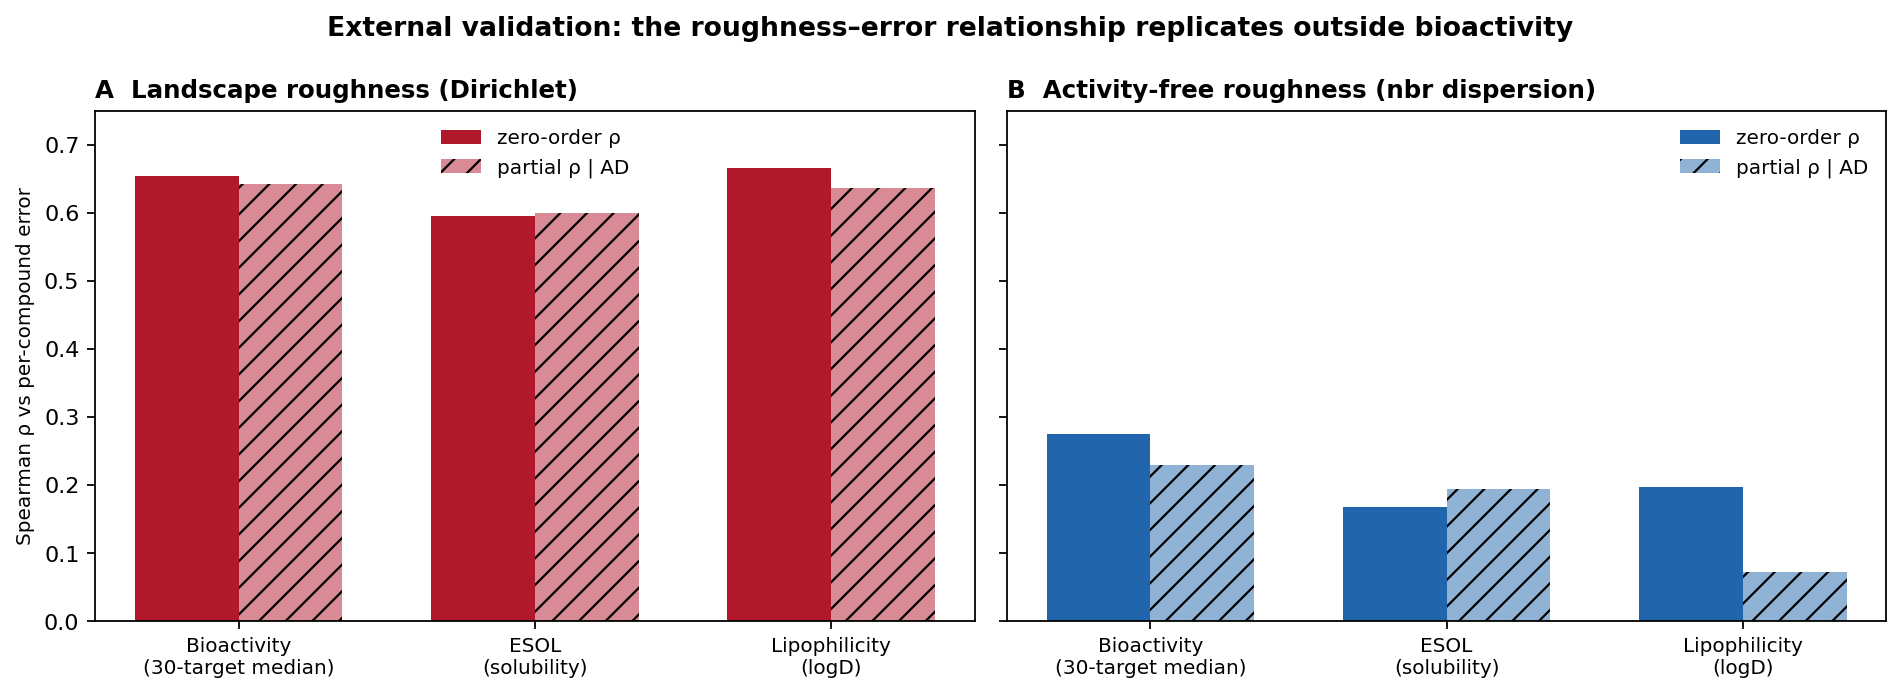
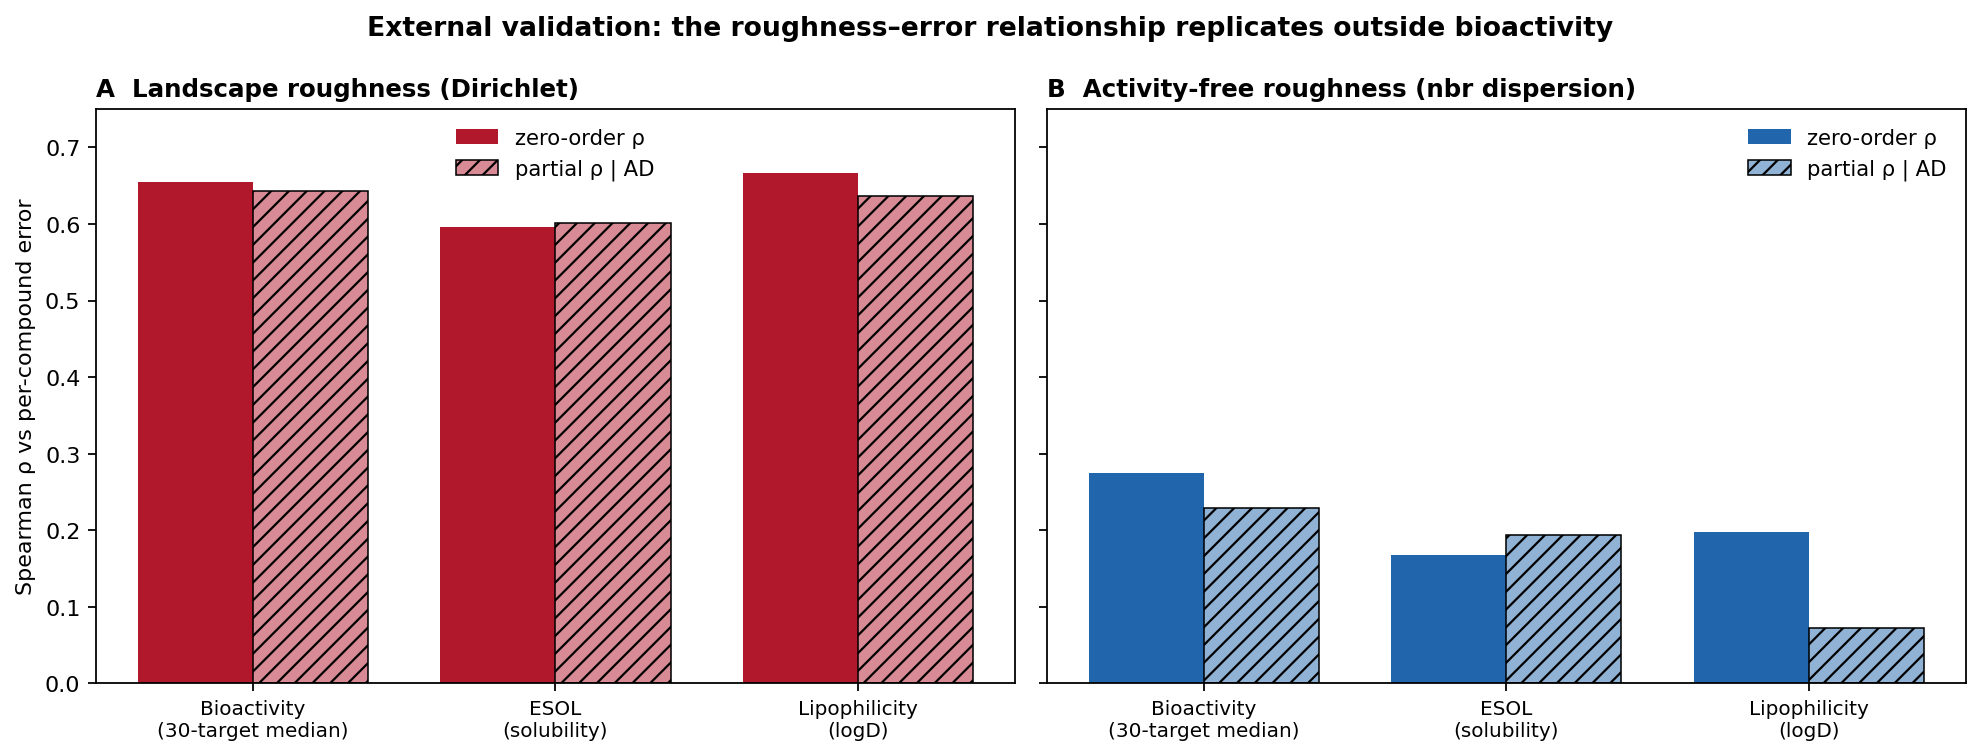
Add make_figure4.py to regenerate the cross-domain figure (Figure 4)
Figure 4 had no generating script in the repo. Add src/make_figure4.py, which
rebuilds figure4_crossdomain.png from cross_domain_results.csv (ESOL, Lipophilicity)
and the bioactivity medians in tableA/tableB, matching the published panel. Update
the README repro order and drop the stale 'cross_domain.py -> figure' claim, so every
figure in the paper is now regenerable. Recompiled main.pdf.

diff --git a/src/make_figure4.py b/src/make_figure4.py
@@ -1,0 +1,51 @@
+"""make_figure4.py -- cross-domain validation figure (Figure 4).
+grouped bars of zero-order vs AD-controlled partial Spearman, for the landscape
+Dirichlet energy (panel A) and the activity-free neighbour dispersion (panel B),
+across the 30-target bioactivity median and the two MoleculeNet physchem sets.
+reads cross_domain_results.csv (ESOL + Lipophilicity) and tableA/tableB for the
+bioactivity medians, so run after cross_domain.py and analyze.py.
+"""
+import os, sys
+sys.path.insert(0, os.path.dirname(os.path.abspath(__file__)))
+from config import RESULTS_DIR, FIGURES_DIR
+import numpy as np, pandas as pd
+import matplotlib; matplotlib.use("Agg"); import matplotlib.pyplot as plt
+
+cd = pd.read_csv(os.path.join(RESULTS_DIR, "cross_domain_results.csv")).set_index("dataset")
+A  = pd.read_csv(os.path.join(RESULTS_DIR, "tableA_spearman_vs_error.csv")).set_index("predictor")
+B  = pd.read_csv(os.path.join(RESULTS_DIR, "tableB_partial_AD.csv")).set_index("predictor")
+
+esol, lipo = "ESOL (logS solubility)", "Lipophilicity (logD)"
+groups = ["Bioactivity\n(30-target median)", "ESOL\n(solubility)", "Lipophilicity\n(logD)"]
+
+# panel A: landscape Dirichlet energy; panel B: activity-free neighbour dispersion
+dir_zero  = [A.loc["dirichlet", "median_rho"], cd.loc[esol, "rho_dirichlet"], cd.loc[lipo, "rho_dirichlet"]]
+dir_part  = [B.loc["dirichlet", "partial_AD"], cd.loc[esol, "partial_dir_AD"], cd.loc[lipo, "partial_dir_AD"]]
+disp_zero = [A.loc["nbr_disp", "median_rho"],  cd.loc[esol, "rho_nbr_disp"],  cd.loc[lipo, "rho_nbr_disp"]]
+disp_part = [B.loc["nbr_disp", "partial_AD"],  cd.loc[esol, "partial_disp_AD"], cd.loc[lipo, "partial_disp_AD"]]
+
+def lighten(hexc, f=0.5):
+    h = hexc.lstrip("#"); rgb = [int(h[i:i+2], 16) for i in (0, 2, 4)]
+    return "#%02x%02x%02x" % tuple(int(c + (255 - c) * f) for c in rgb)
+
+panels = [("A  Landscape roughness (Dirichlet)",          "#b2182b", dir_zero,  dir_part),
+          ("B  Activity-free roughness (nbr dispersion)", "#2166ac", disp_zero, disp_part)]
+
+fig, ax = plt.subplots(1, 2, figsize=(12.5, 4.8), sharey=True)
+x, w = np.arange(len(groups)), 0.38
+for a, (title, color, zero, part) in zip(ax, panels):
+    a.bar(x - w/2, zero, w, color=color, label="zero-order ρ")
+    a.bar(x + w/2, part, w, facecolor=lighten(color), hatch="///",
+          edgecolor="black", linewidth=0.7, label="partial ρ | AD")
+    a.set_xticks(x); a.set_xticklabels(groups, fontsize=9)
+    a.axhline(0, color="k", lw=0.6)
+    a.set_ylim(0, 0.75)
+    a.set_title(title, fontsize=11, loc="left", weight="bold")
+    a.legend(frameon=False, fontsize=9.5,
+             loc="upper center" if title.startswith("A") else "upper right")
+ax[0].set_ylabel("Spearman ρ vs per-compound error", fontsize=10)
+fig.suptitle("External validation: the roughness–error relationship replicates outside bioactivity",
+             fontsize=12, weight="bold")
+plt.tight_layout()
+plt.savefig(os.path.join(FIGURES_DIR, "figure4_crossdomain.png"), dpi=160, bbox_inches="tight")
+print("figure4_crossdomain.png saved")

diff --git a/README.md b/README.md
@@ -66,9 +66,10 @@ python src/robustness.py all            # k / metric sweep -> robustness caches
 python src/robustness_analyze.py        # -> robustness_summary.csv, robustness figure
 python src/model2.py all                # gradient boosting + SVR errors -> cache_models/
 python src/model_agnostic_analyze.py    # -> model_agnostic_results.csv (Table 1)
-python src/cross_domain.py              # ESOL + Lipophilicity -> cross_domain_results.csv, figure
+python src/cross_domain.py              # ESOL + Lipophilicity -> cross_domain_results.csv
 python src/enrichment.py                # triage/enrichment -> figure
-python src/make_figure1.py              # main three-panel figure
+python src/make_figure1.py              # main three-panel figure (Figure 1)
+python src/make_figure4.py              # cross-domain validation figure (Figure 4)
 python src/toc_graphic.py               # ACS table-of-contents graphic
 python src/make_si_tables.py            # -> results/per_target_correlations.csv + paper/si_tables.tex
 ```